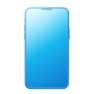
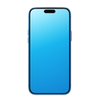
section processus de développement développée et responsive

Changed region(s): [[0.2553, 0.0638, 0.7447, 0.9574]]

diff --git a/Home/static/css/Home.css b/Home/static/css/Home.css
@@ -13,7 +13,6 @@ body {
 header {
     width: 100%;
     height: 500px;
-    /* background-image: linear-gradient(30deg, #33c0ef, #ffafc2, #33c0ef); */
     background-image: url('../img/header-bg.jpg');
     background-position: top;
     background-size: cover;
@@ -213,7 +212,7 @@ header a {
     color: #073B4C;
 }
 
-.card .info-container {
+.services .card .info-container {
     width: 100%;
     height: 100%;
     background-color: white;
@@ -247,12 +246,12 @@ header a {
     z-index: 1;
 }
 
-.card button:hover {
+.services .card button:hover {
     border-color: white;
     color: #073B4C;
 }
 
-.card button::before {
+.services .card button::before {
     content: '';
     position: absolute;
     width: 0%;
@@ -333,6 +332,66 @@ button:hover:before {
     margin-bottom: 20px;
 }
 
+.realisation .body {
+    margin-top: 50px;
+    width: 100%;
+    height: max-content;
+    display: flex;
+    flex-wrap: wrap;
+    justify-content: center;
+    column-gap: 30px;
+    row-gap: 30px;
+}
+
+.realisation .card {
+    width: 230px;
+    min-width: 230px;
+    height: 300px;
+    border-radius: 5px;
+    overflow: hidden;
+    cursor: pointer;
+    color: #073B4C;
+    transition: opacity 200ms ease-in-out;
+    box-shadow: 1px 1px 5px #073b4c2f inset, -1px -1px 5px #073b4c2f inset;
+    background-image: url('../img/card-bg.jpg');
+    background-position: bottom;
+    background-size: cover;
+    background-attachment: fixed;
+    transition: 200ms ease-in-out;
+}
+
+.realisation .card:hover {
+    opacity: 1;
+    transition: opacity 200ms ease-in-out, margin-top 200ms ease-in-out;
+    margin-top: -10px;
+}
+
+.realisation .foot {
+    margin-bottom: 50px;
+}
+
+.realisation .info-container {
+    background-color: transparent;
+    backdrop-filter: blur(10px);
+    width: 100%;
+    height: 100%;
+    display: flex;
+    flex-direction: column;
+    justify-content: center;
+    align-items: center;
+    padding: 30px;
+    text-align: center;
+}
+
+.card .number {
+    font-size: 70px;
+}
+
+.realisation .card button:hover {
+    background-color: white;
+    color: #073B4C;
+}
+
 @media only screen and (max-width: 766px) {
     header {
         padding: 10px 20px 20px 20px;
@@ -345,6 +404,11 @@ button:hover:before {
     }
     header h1 {
         width: 70%;
+    }
+
+    .realisation h2 {
+        width: 50%;
+        margin: 0 auto 20px auto;
     }
 }
 

diff --git a/Home/templates/index.html b/Home/templates/index.html
@@ -54,7 +54,7 @@
         <div class="body">
             <div class="card">
                 <div class="info-container">
-                    <img src="{% static 'img/dev-mobile.png' %}" alt="">
+                    <img src="{% static 'img/dev-web.png' %}" alt="">
                     <h4>Développement web</h4>
                     <span>
                         <p>Site web, Application web</p>
@@ -93,6 +93,44 @@
             <p>
                 Nous nous engageons à votre côté, main dans la main, pour donner vie à votre idée de génie afin de créer une solution originale, mature et robuste. C'est pour celà qu'on a mis en place des étapes bien déterminées pour des succès garantis.
             </p>
+        </div>
+        <div class="body">
+            <div class="card">
+                <div class="info-container">
+                    <h3 class="number">
+                        1
+                    </h3>
+                    <h4>Conception et maquettage</h4>
+                    <button>
+                        En savoir plus
+                    </button>
+                </div>
+            </div>
+            <div class="card">
+                <div class="info-container">
+                    <h3 class="number">
+                        2
+                    </h3>
+                    <h4>Développement</h4>
+                    <button>
+                        En savoir plus
+                    </button>
+                </div>
+            </div>
+            <div class="card">
+                <div class="info-container">
+                    <h3 class="number">
+                        3
+                    </h3>
+                    <h4>Livraison / Mise en ligne</h4>
+                    <button>
+                        En savoir plus
+                    </button>
+                </div>
+            </div>
+        </div>
+        <div class="foot">
+            <button>Nous contacter</button>
         </div>
     </section>
     <script src="{% static 'js/Home.js' %}"></script>
